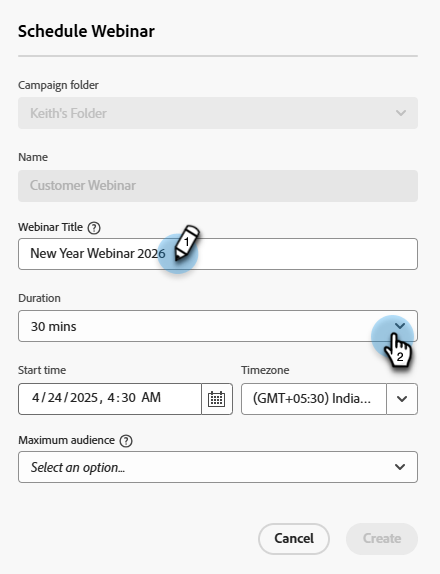
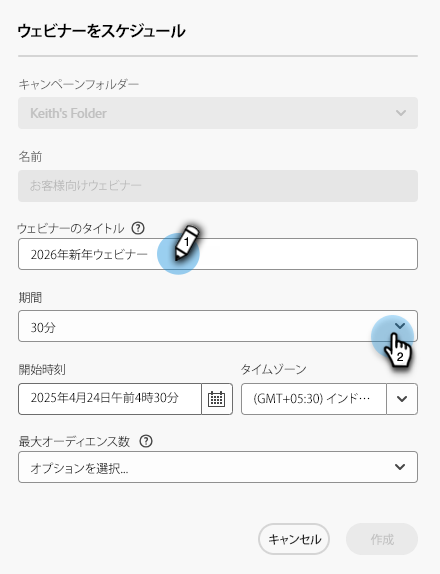
Updated by task 'AUTO_HANDOFF_1745822094693'  Changes for core/source commit https://git.corp.adobe.com/AdobeDocs/marketo.en/commit/4b8ad353dac509ab901cb6672a649f85d8a6f150

diff --git a/help/marketo/product-docs/demand-generation/dynamic-chat/integrations/demandbase.md b/help/marketo/product-docs/demand-generation/dynamic-chat/integrations/demandbase.md
@@ -6,9 +6,9 @@ hide: true
 hidefromtoc: true
 exl-id: 2623eef2-0b15-4821-a23e-12eed613d6b6
 source-git-commit: 4b8ad353dac509ab901cb6672a649f85d8a6f150
-workflow-type: tm+mt
+workflow-type: ht
 source-wordcount: '161'
-ht-degree: 45%
+ht-degree: 100%
 
 ---
 
@@ -16,27 +16,27 @@ ht-degree: 45%
 
 Demandbase ユーザは、Dynamic Chat でのダイアログターゲティング、条件付きブランディング、カスタムルーティングに Demandbase のユーザ属性を使用できます。
 
-## Dynamic Chatの API キーへのアクセス {#access-the-api-key-for-dynamic-chat}
+## Dynamic Chat の API キーへのアクセス {#access-the-api-key-for-dynamic-chat}
 
-以下の手順は、（Demandbase アカウントで _実行する必要があ_ ます。
+以下の手順は、_Demandbase アカウント_&#x200B;で実行する必要があります。
 
 1. Demandbase で、「_設定_」アイコンをクリックします。
 
-1. _統合_ で、「**アカウントコネクタ**」を選択します。
+1. _統合_&#x200B;で、「**アカウントコネクタ**」を選択します。
 
-1. **+新規作成** ボタンをクリックします。
+1. 「**+ 新規作成**」ボタンをクリックします。
 
-1. _Integration Name_ ドロップダウンで、「**Adobe Dynamic Chat**」を選択します。
+1. _統合名_&#x200B;ドロップダウンで、「**Adobe Dynamic Chat**」を選択します。
 
 1. 「**サーバーサイド**」ラジオボタンを選択します。
 
 1. 「**作成**」をクリックします。
 
-1. _コピー_ アイコンを使用して、ページ下部の API トークン文字列をコピーします。
+1. 「_コピー_」アイコンを使用して、ページ下部の API トークン文字列をコピーします。
 
 >[!NOTE]
 >
->詳細については、Demandbase のヘルプ サイトの [ 統合にデータを送信するための Demandbase の設定（アカウント コネクタ） ](https://support.demandbase.com/hc/en-us/articles/360057169531-Set-Up-Demandbase-to-Send-Data-to-an-Integration-Account-Connector){target="_blank"} を参照してください。
+>詳しくは、Demandbase のヘルプサイトの[統合にデータを送信する Demandbase の設定（アカウントコネクタ）](https://support.demandbase.com/hc/en-us/articles/360057169531-Set-Up-Demandbase-to-Send-Data-to-an-Integration-Account-Connector){target="_blank"}を参照してください。
 
 ## 統合機能 {#integration-features}
 

diff --git a/help/marketo/product-docs/demand-generation/events/interactive-webinars/create-an-interactive-webinar.md b/help/marketo/product-docs/demand-generation/events/interactive-webinars/create-an-interactive-webinar.md
@@ -4,9 +4,9 @@ title: インタラクティブウェビナーの作成
 exl-id: 91fdede6-2e5a-4895-9893-852d0441aa2a
 feature: Interactive Webinars
 source-git-commit: ce79145d8186e6d17dbe579aceb90d3c209f1b31
-workflow-type: tm+mt
+workflow-type: ht
 source-wordcount: '306'
-ht-degree: 76%
+ht-degree: 100%
 
 ---
 
@@ -48,7 +48,7 @@ ht-degree: 76%
 
    >[!NOTE]
    >
-   >* ウェビナーのタイトル **は** 参加者が参加時に表示されます。 Marketo Engage インスタンスのインタラクティブウェビナーイベントプログラムの名前やウェビナールームの名前とタイトルが異なることが重要です。
+   >* このウェビナーのタイトルは、参加者が参加すると表示&#x200B;**されます**。Marketo Engage インスタンスのインタラクティブウェビナーイベントプログラムの名前やウェビナールームの名前と、異なるタイトルを付けることが重要です。
    >
    >* ウェビナータイトルは、再利用できません。それぞれが Marketo インスタンス内で一意である必要があります。
    >
@@ -56,7 +56,7 @@ ht-degree: 76%
    >
    >* テストウェビナーを作成する場合は、そのウェビナーのライセンスが利用されないように、開始時間より前に削除する必要があります。
 
-1. ウェビナーの日時をスケジュールし、（必要に応じて）タイムゾーンを変更し、最大オーディエンスサイズを設定します。 完了したら「**作成**」をクリックします。
+1. ウェビナーの日時をスケジュールし、（必要に応じて）タイムゾーンを変更し、最大オーディエンスサイズを設定します。完了したら「**作成**」をクリックします。
 
    ![](assets/create-an-interactive-webinar-7.png)
 
